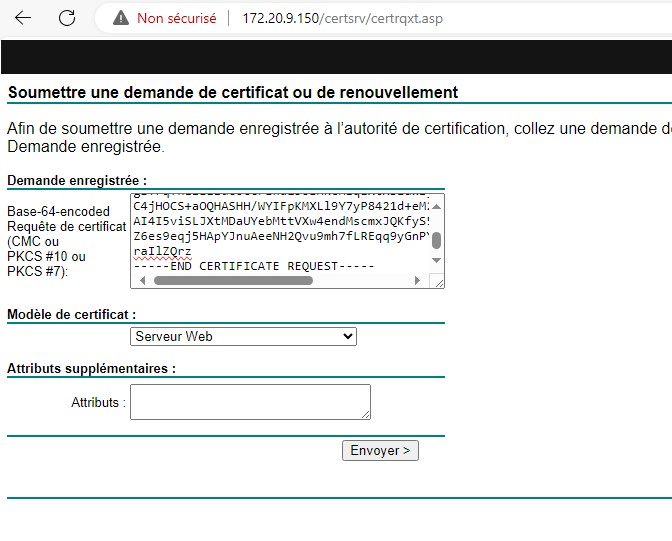
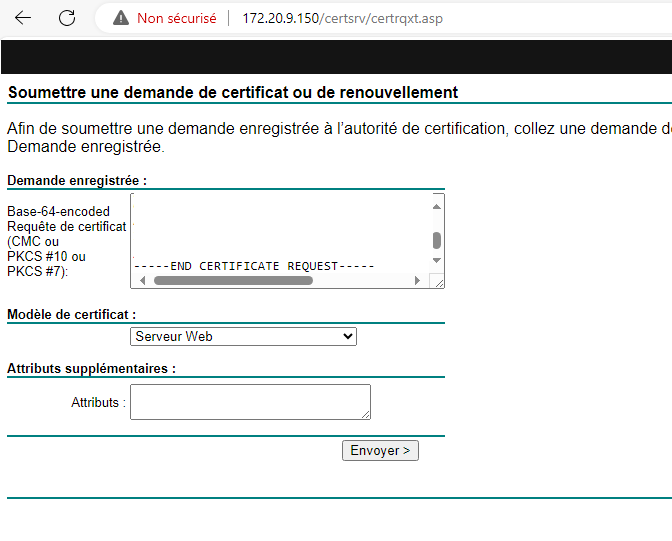
Masquer le corps du CSR encore lisible sur la page 17.
La zone entre le cadre et END CERTIFICATE REQUEST est opaque, le formulaire et Serveur Web restent visibles, et la légende est sous la capture.

Changed region(s): [[0.1875, 0.3549, 0.6562, 0.5028]]

diff --git a/docs/tp/17-reseau-et-securite/module-06/tp7/corrections.md b/docs/tp/17-reseau-et-securite/module-06/tp7/corrections.md
@@ -122,6 +122,8 @@ Sur le routeur PFsense
 
 ![TP7, correction, page 17](../../../../assets/images/reseau-et-securite/tp7/correction-p17-51.png)
 
+Contenu PEM masqué
+
 ![TP7, correction, page 17](../../../../assets/images/reseau-et-securite/tp7/correction-p17-52.png)
 
 Valeurs de la capture :
